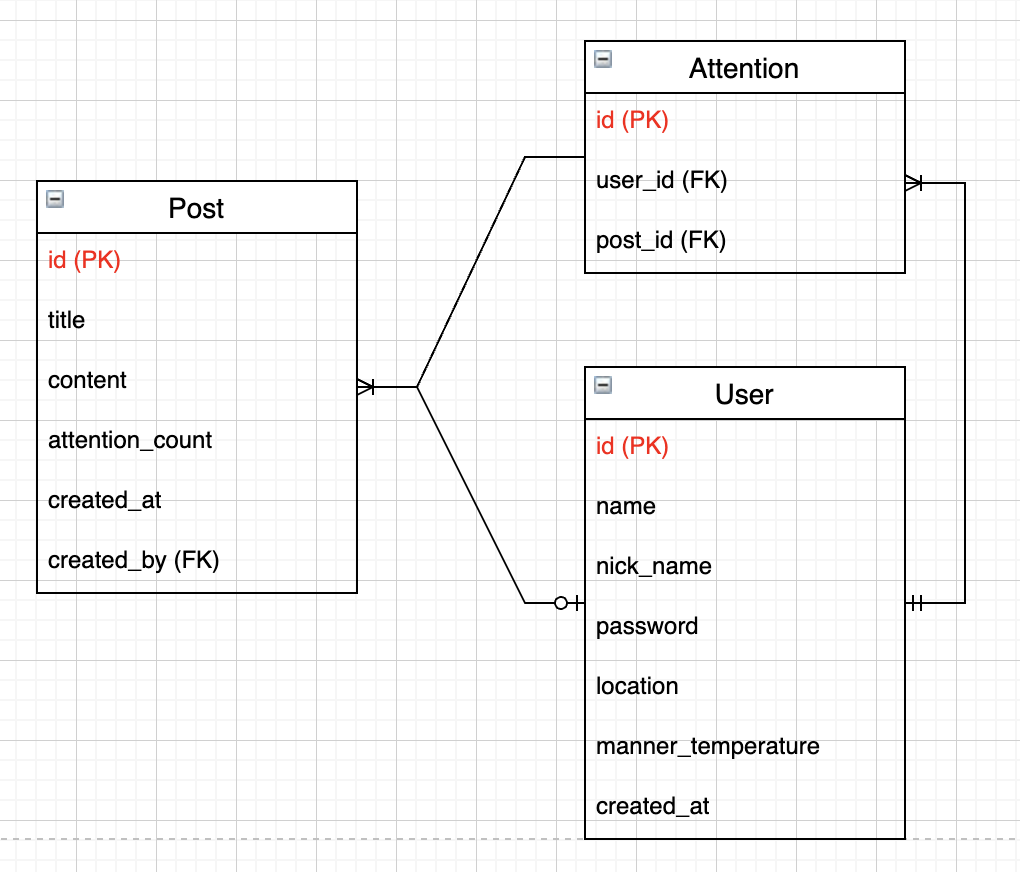
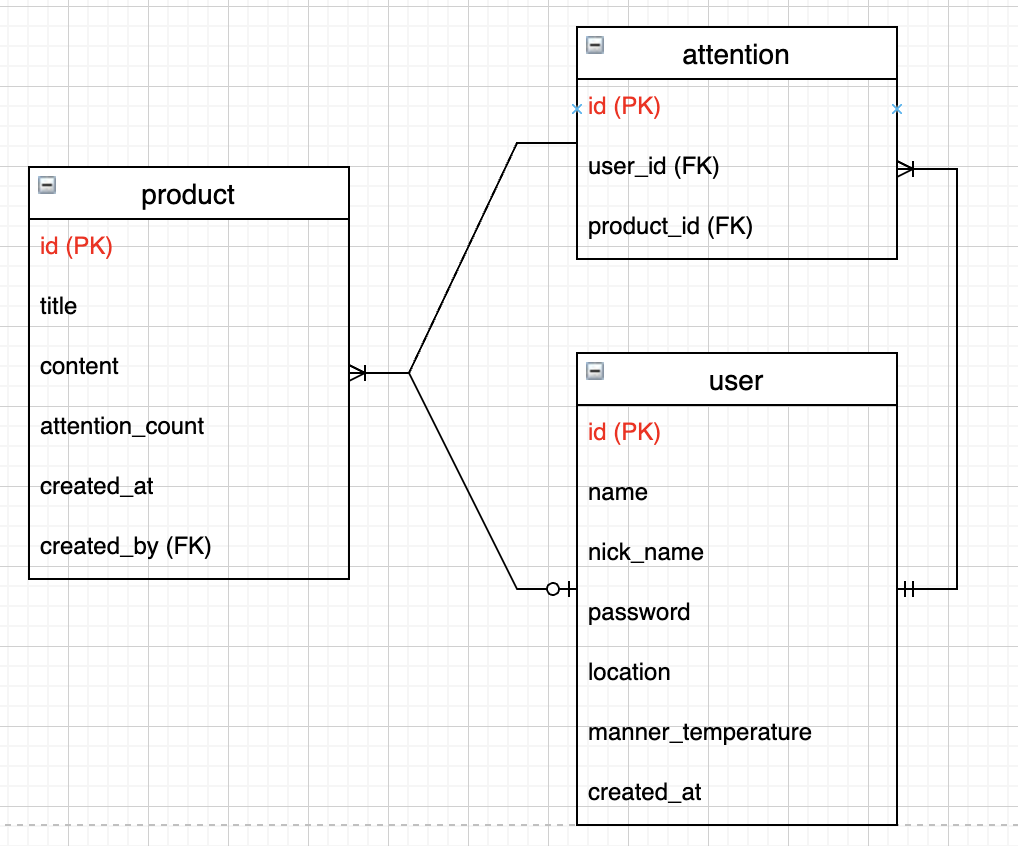
엔티티명 수정

diff --git a/52market_back/src/main/java/prgrms/al/back/product/Product.java b/52market_back/src/main/java/prgrms/al/back/product/Product.java
@@ -1,10 +1,10 @@
-package prgrms.al.back.post;
+package prgrms.al.back.product;
 
 import javax.persistence.Entity;
 import javax.persistence.Id;
 
-@Entity(name = "post")
-public class Post {
+@Entity(name = "product")
+public class Product {
     @Id
     private Long id;
 }
